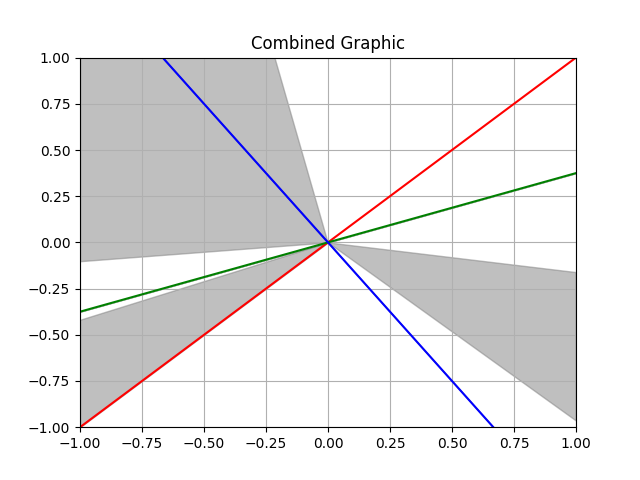
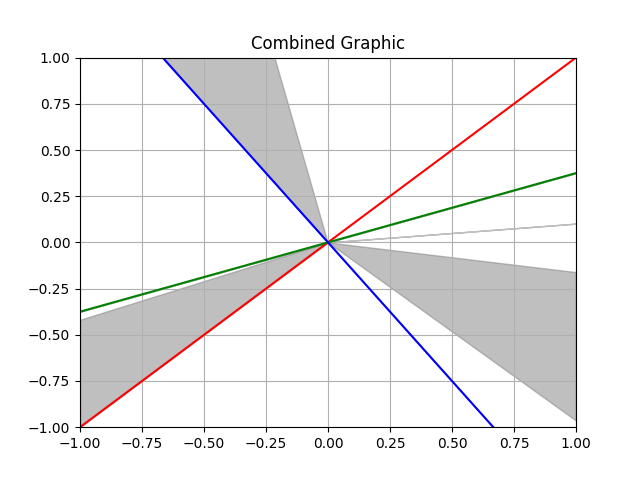
pics

Changed region(s): [[0.125, 0.125, 0.5, 0.5625], [0.5938, 0.4688, 0.875, 0.5], [0.5312, 0.5, 0.5625, 0.5312]]

diff --git a/ml_linear_layers/project.py b/ml_linear_layers/project.py
@@ -199,7 +199,7 @@ plt.plot(x, y3, 'b')
 # Case 1
 z1 = (6/59)*x
 z2 = (-39/16)*x
-plt.fill_between(x, z1, y3, where = x < 0, color = 'grey', alpha = 0.5) 
+plt.fill_between(x, z1, z1, where = x > 0, color = 'grey', alpha = 0.5) 
 # Case 2
 z1 = (18/43)*x
 z2 = (9/4)*x
